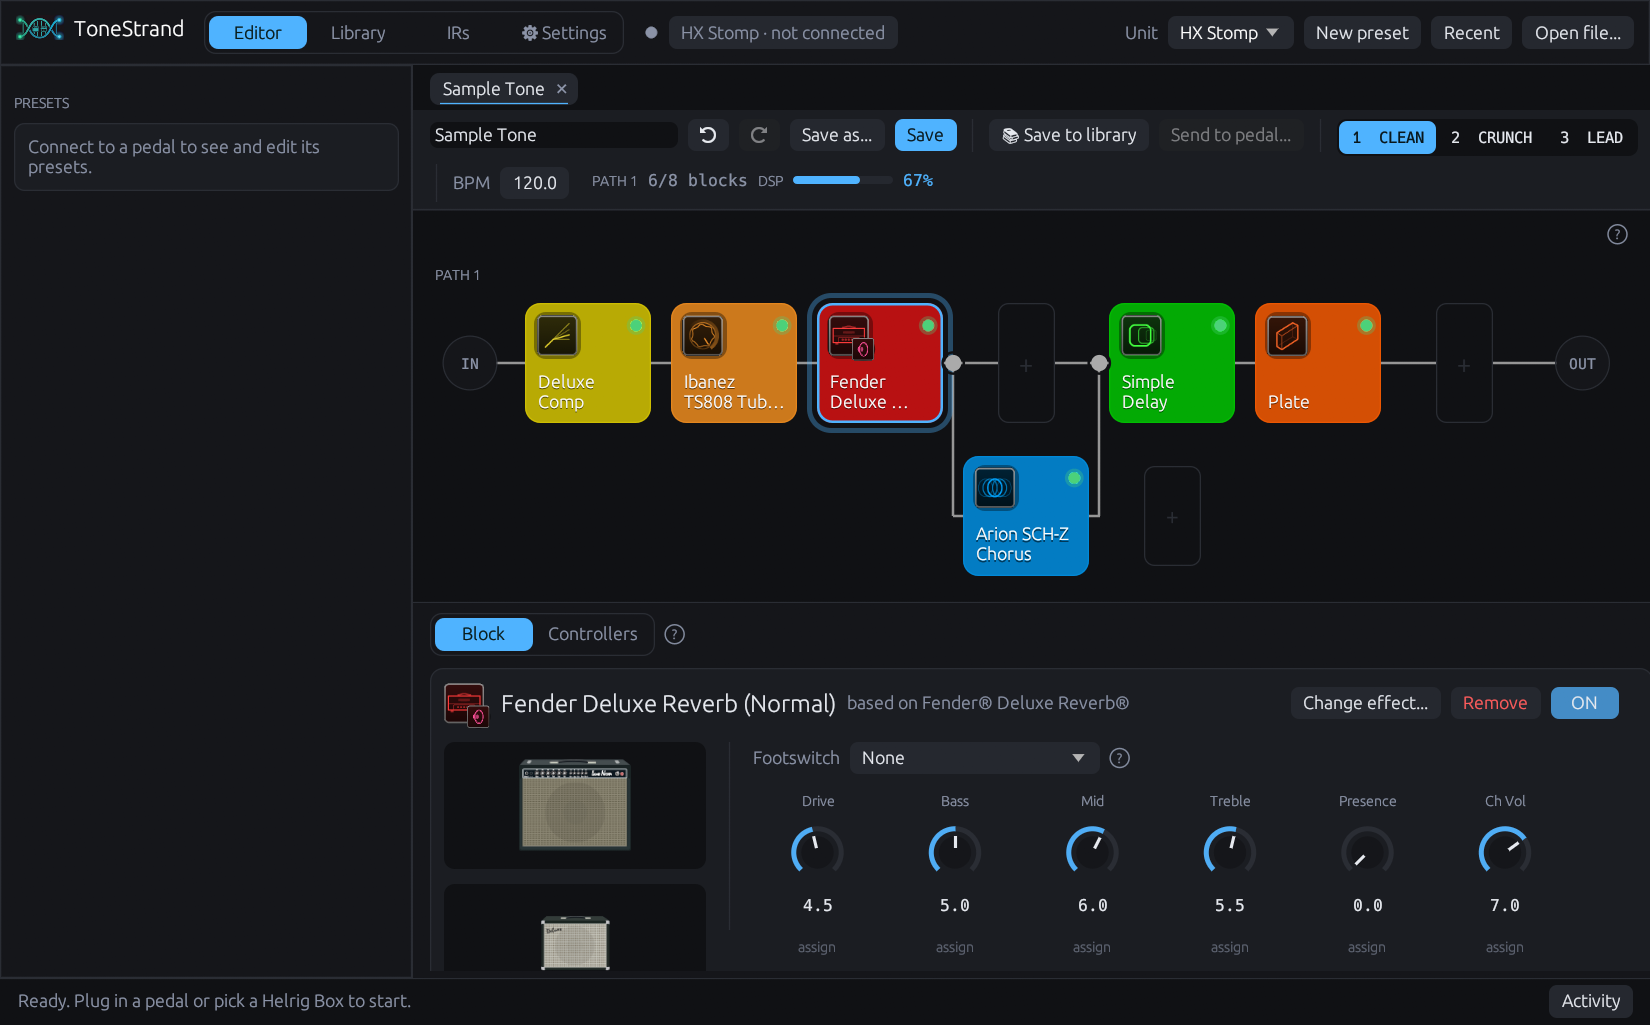
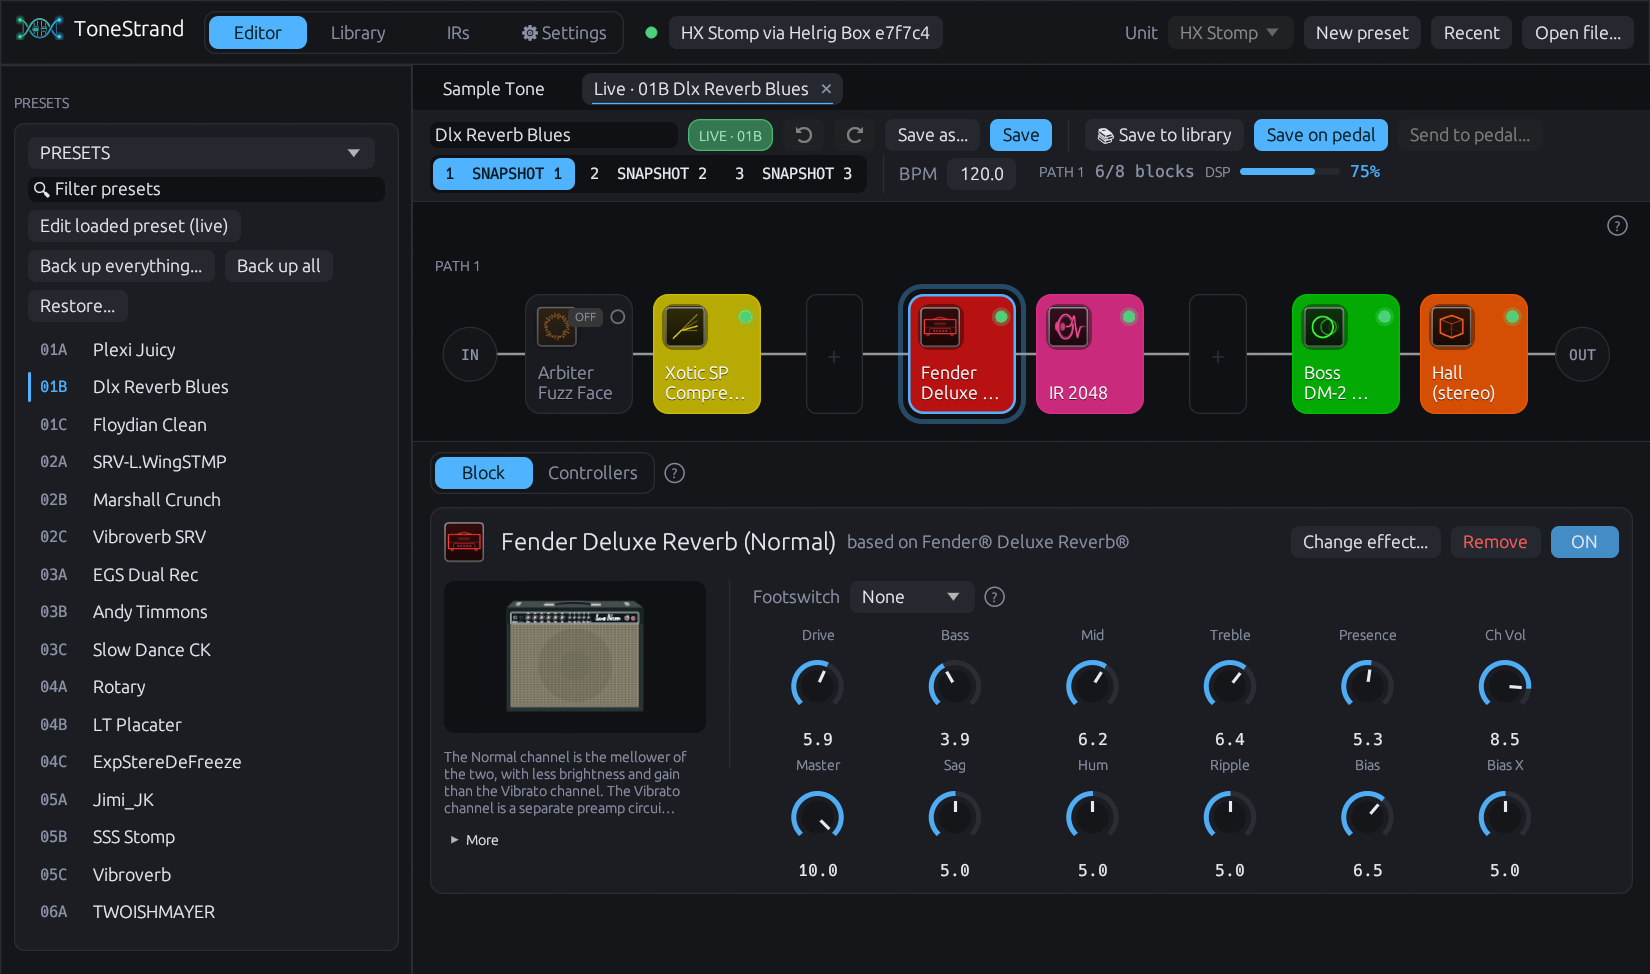
README: screenshots taken connected to a real HX Stomp
The editor with the pedal's preset list and the loaded preset, and the
pedal's User IR slots (status bar cropped out).

diff --git a/README.md b/README.md
@@ -6,11 +6,18 @@ Helix Floor / LT / Rack), connected over **USB** or wirelessly through a **Helri
 Written in Rust with [egui](https://github.com/emilk/egui) / eframe. One self-contained
 program; no account, no cloud, nothing leaves your computer.
 
-![The ToneStrand editor with the sample preset: signal chain on top, the selected amp's knobs below](docs/images/editor.png)
+![The ToneStrand editor connected to an HX Stomp: the pedal's presets on the left, the loaded preset's signal chain on top, the selected amp's knobs below](docs/images/editor.png)
 
-*The editor with the built-in sample preset: the signal chain on top (the lower lane is a
-parallel path), the selected effect's knobs below, snapshots and the DSP meter in the bar.
-The effect pictures and names come from Line 6; see "Third-party material" below.*
+*Editing the preset loaded on an HX Stomp, connected through a Helrig Box: the pedal's preset
+list on the left, the signal chain on top, the selected effect's knobs below, snapshots and
+the DSP meter above the chain. Every change is heard at once.*
+
+![The IRs page listing the 47 User IRs on the pedal, with buttons to send, download, rename and remove them](docs/images/pedal-irs.png)
+
+*The pedal's User IRs: which of the 128 slots are in use, with download, rename, remove and
+"Send IRs or NAM captures" (the slot is backed up first).*
+
+The effect pictures and names come from Line 6; see "Third-party material" below.
 
 ## What it does
 
